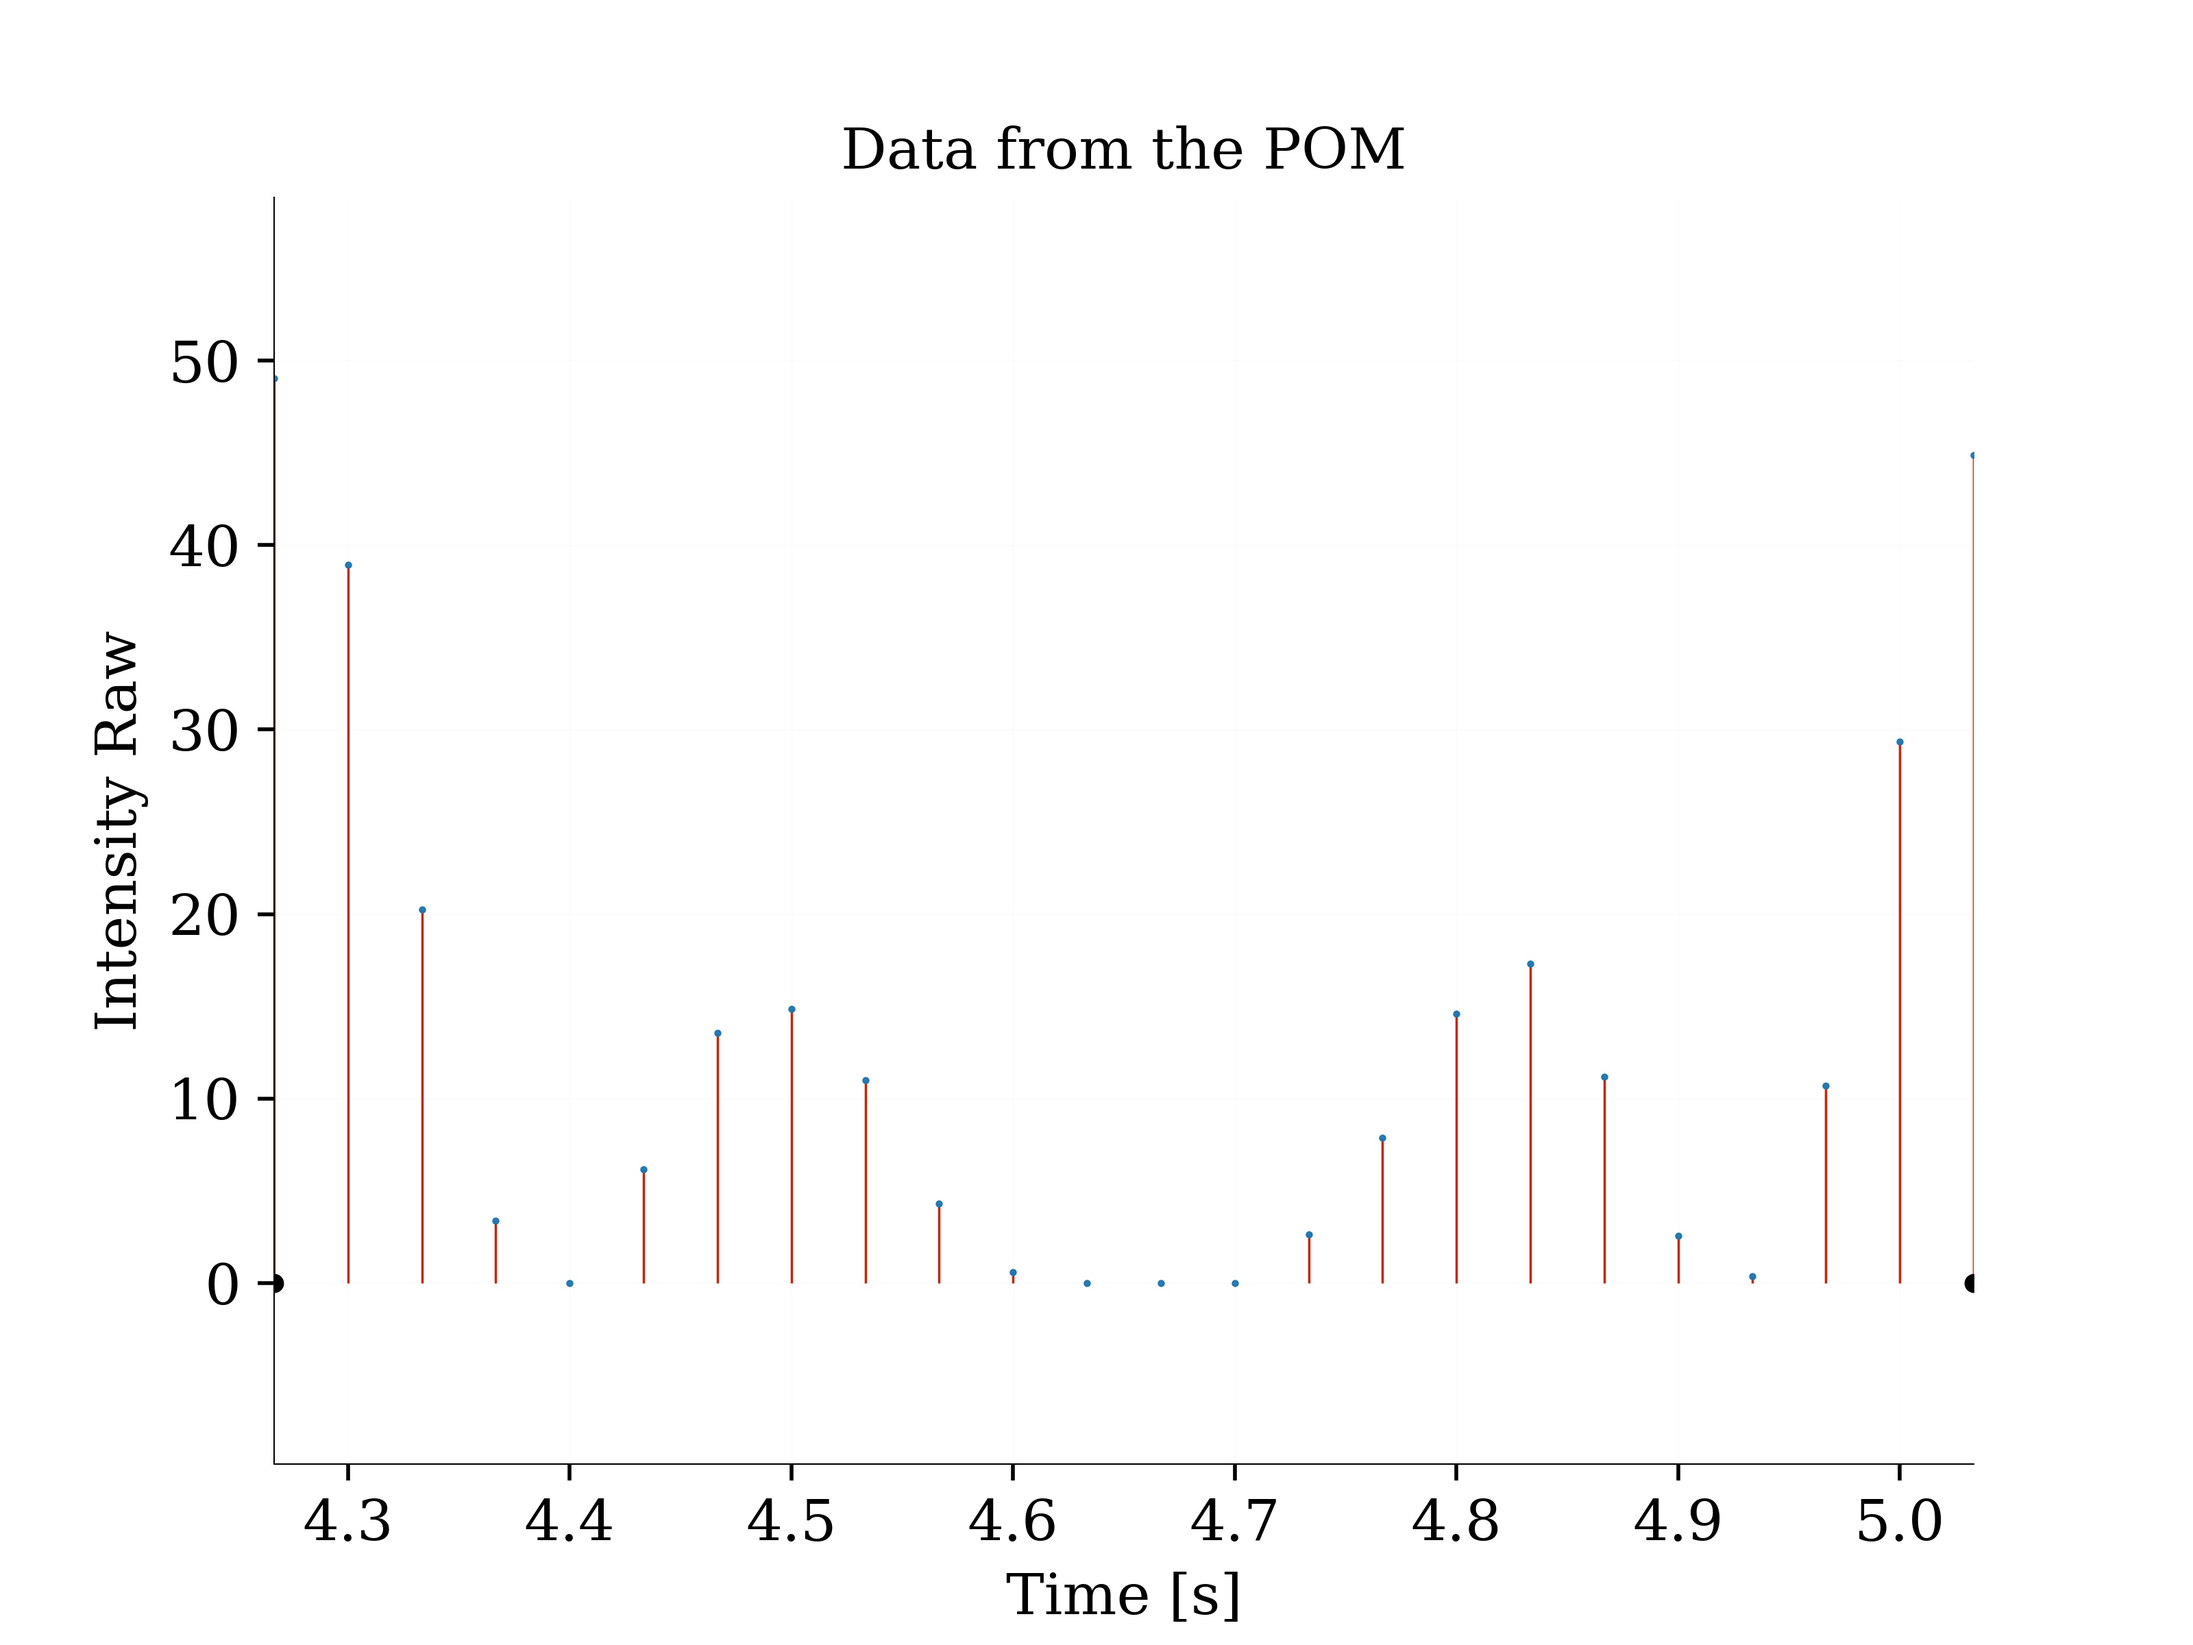
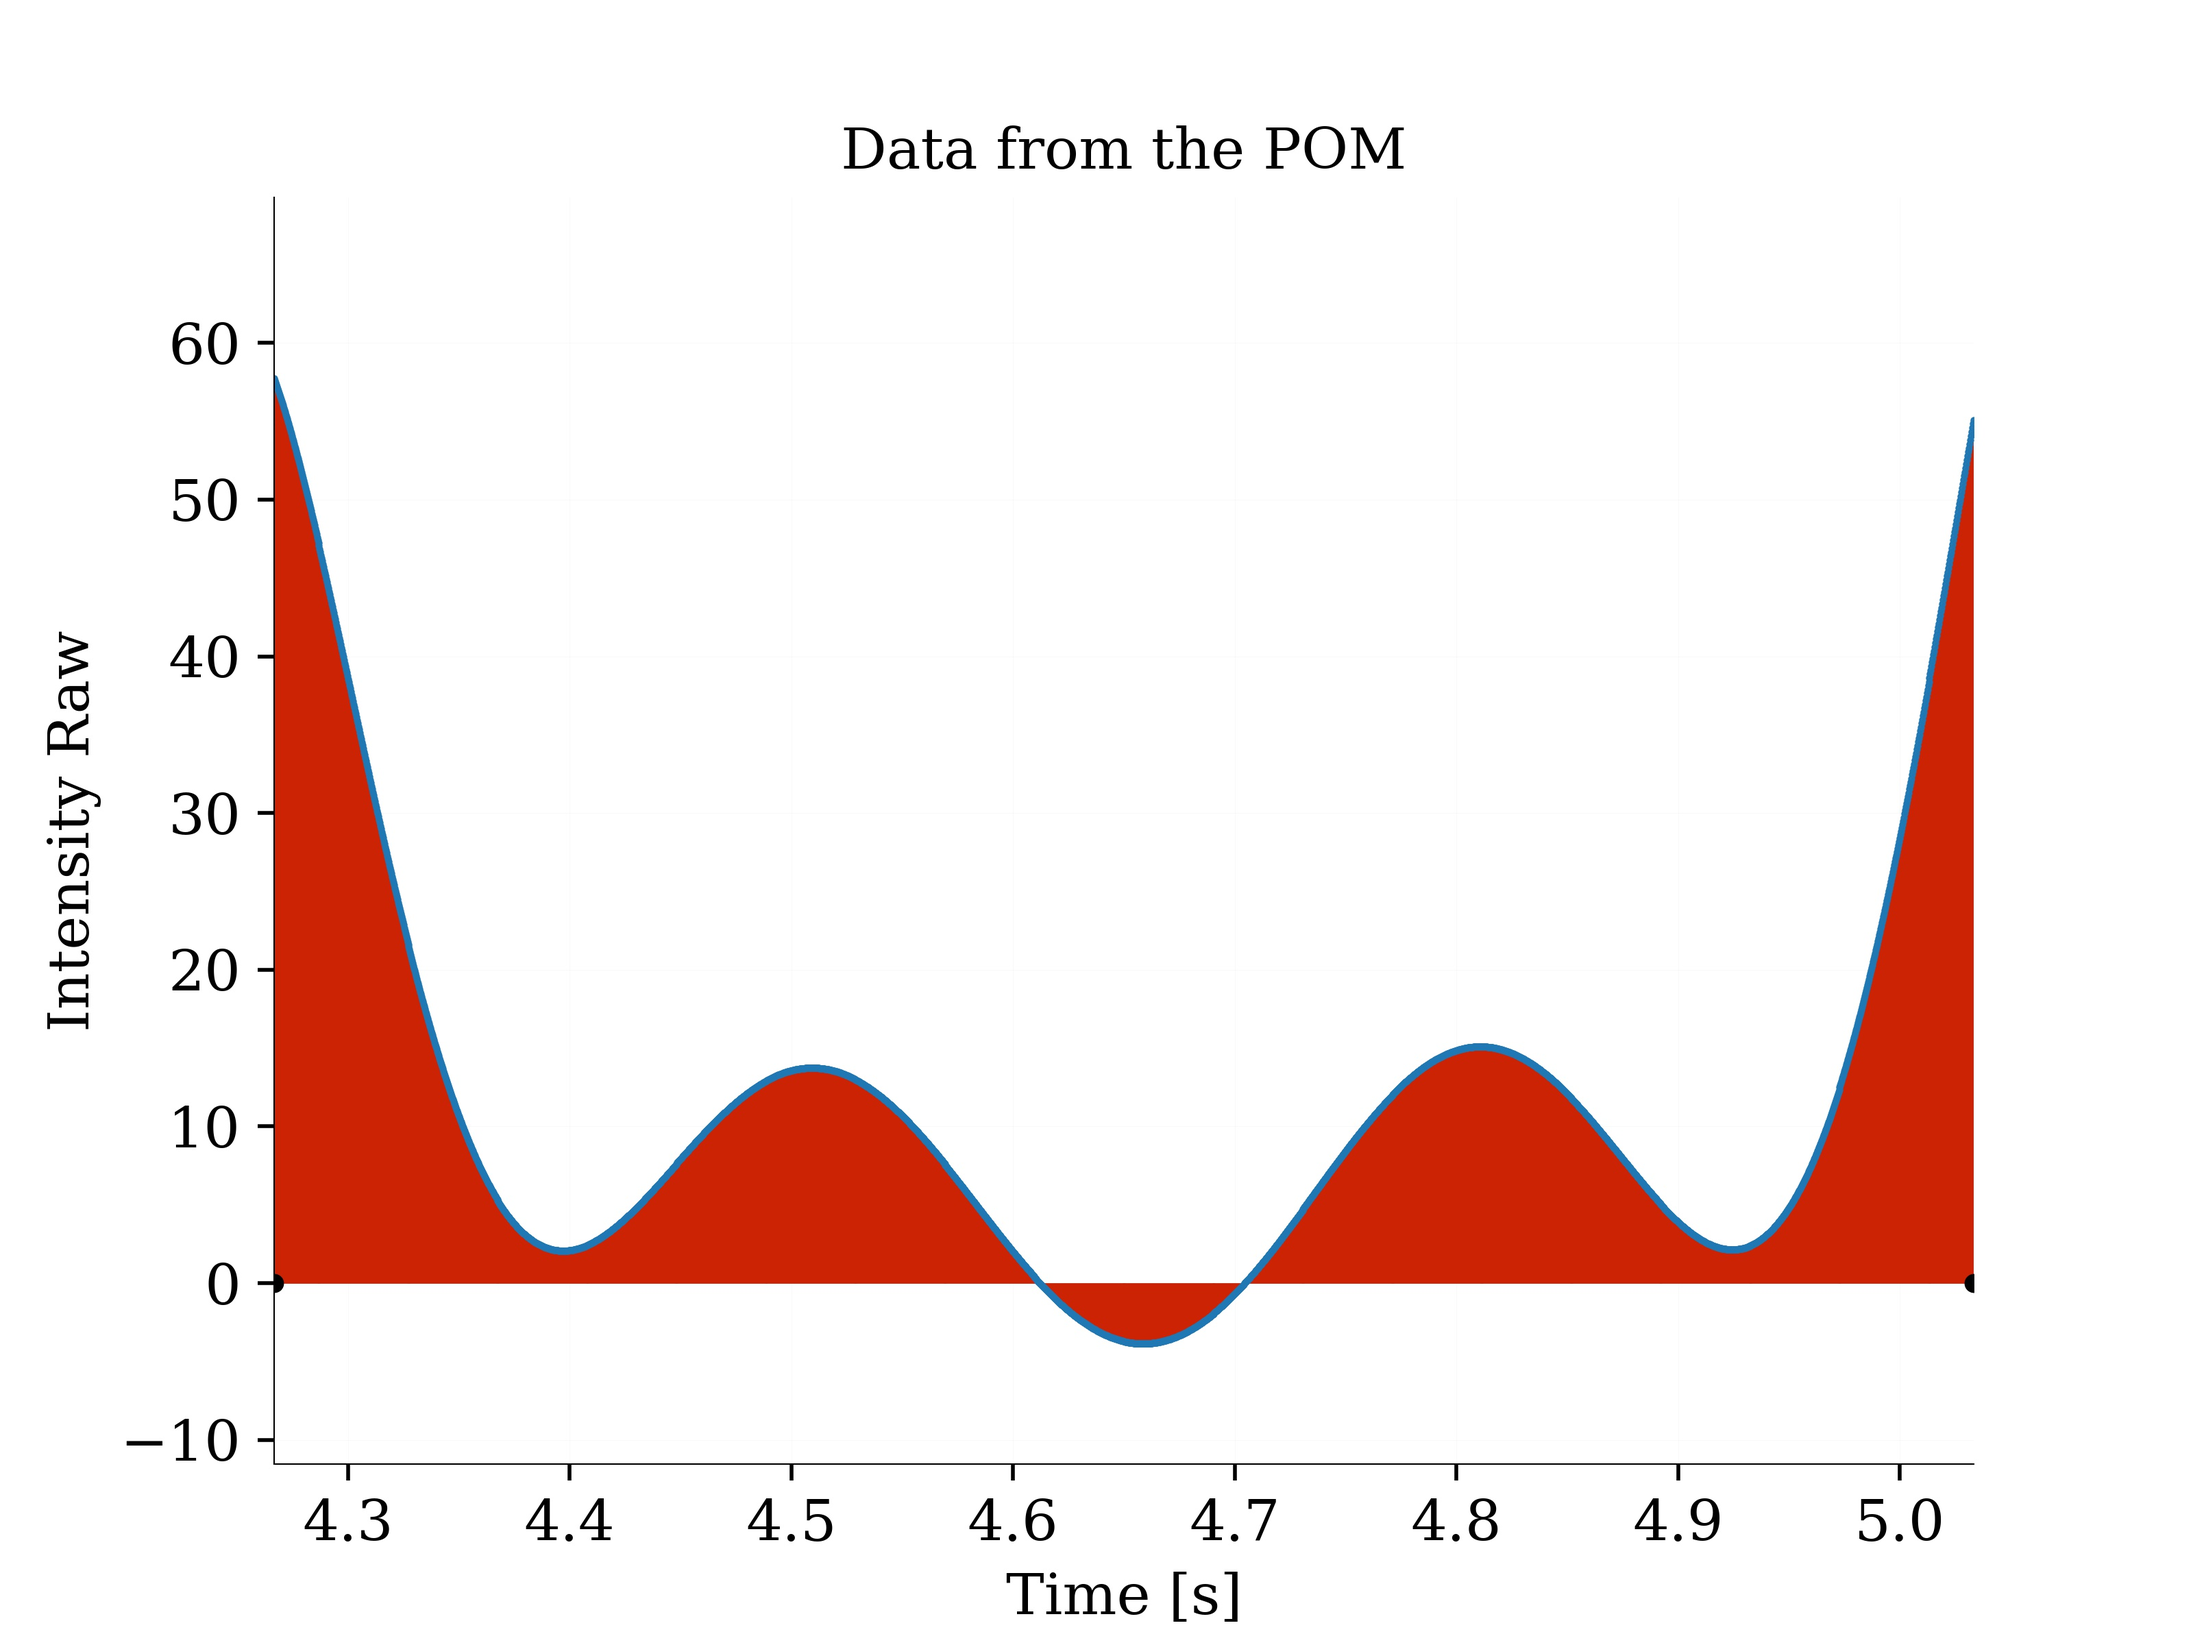
Second Edition

diff --git a/sensitiity_analysis.py b/sensitiity_analysis.py
@@ -1,6 +1,8 @@
 from fourier_transforms import fourier_coeffs, f_series, LagrangePoly    # helper functions
+from fourier_transforms import f_series2, f_residual
 from inerpolation_methods import whittaker_shannon_interpolation
 from scipy.signal import find_peaks
+from scipy.optimize import leastsq
 from collections import deque
 import numpy as np
 from matplotlib import pyplot as plt                                      # graphing utilities
@@ -28,17 +30,34 @@ peaks, _ = find_peaks(y_0, height=40)
 y_m, x_m = y_0[peaks[1]:peaks[2]], x_0[peaks[1]:peaks[2]]
 y_m1, x_m1 = y_0[peaks[2]:peaks[3]], x_0[peaks[2]:peaks[3]]
 y_mp, x_mp = y_0[peaks[1]:peaks[5]], x_0[peaks[1]:peaks[5]]
+x_m_new = np.linspace(min(x_m), max(x_m), 2500)
+y_m_new = (whittaker_shannon_interpolation(x_m_new, x_m, y_m))
 
 # plot_initial_signal_single(x_m, y_m)
+x_initial = np.ones(25)*2
+leastsq_x = leastsq(f_residual, x_initial, args=(x_m_new, y_m_new), maxfev=10000)
+print(leastsq_x[0][0])
+print("scipy.optimize.leastsq: ", leastsq_x[0])
+
+plt.plot(x_m_new, y_m_new, label="Data")
+plt.plot(x_m_new, f_series2(leastsq_x[0], x_m_new), label="optimize.leastsq")
+plt.xlabel("t")
+plt.legend(loc='upper right')
+plt.show()
+
+
+
+
+
+
 peak_dist = [x_0[peaks[i]] - x_0[peaks[i - 1]] for i in range(1, len(peaks))]
 period = x_0[peaks[2]] - x_0[peaks[1]]  # np.mean(peak_dist)
 
 
 # plot_initial_signal_single(x_f, f_series(a_0, a_k, b_k, x_f, 4, period))
 
-x_m_new = np.linspace(min(x_0), max(x_0), 1000)
-y_m_new = (whittaker_shannon_interpolation(x_m_new, x_0, y_0, period))
-plot_shannon_single(x_m_new, y_m_new, x_0, y_0)
+
+# plot_shannon_single(x_m_new, y_m_new, x_0, y_0)
 
 # x_f = np.linspace(min(x_m), max(x_m), len(x_m))
 # y_f = lp.interpolate(x_f)

diff --git a/fourier_transforms.py b/fourier_transforms.py
@@ -102,4 +102,51 @@ class LagrangePoly:
         return np.sum(b, axis=0)
 
 
+def f_series2(x: np.ndarray,
+              t: any) -> float:
+
+    """
+    Evaluation of the associated function at instances t from fourier series.
+    f(t) ~= a0/2+ sum_{k=1}^{N} ( a_k*cos(2*pi*k*t/T) + b_k*sin(2*pi*k*t/T) )
+
+    Parameters:
+    ________
+    x: coefficient for least square fit
+    t: instance of function evaluation
+    period: Period of periodic signal
+
+    Return:
+    ______
+    S: f(t) Evaluations of associated function
+    """
+    # Interpretation of optimization parameters
+    a_0, a_k, b_k  = x[0], x[1:5], x[5:9]
+    a_phi, b_phi = x[9:13], x[13:17]
+    freqs_a, freqs_b = x[17:21], x[21:25]
+    # function evaluation
+    f = [(a_k[i] * np.cos(2 * np.pi * i * t * freqs_a[i] + a_phi[i]) + b_k[i]
+          * np.sin(2 * np.pi * i * t * freqs_b[i] + b_phi[i])) for i in range(0, len(a_k) - 1)]
+    f = a_0 / 2 + sum(f)
+
+    return f
+
+
+def f_residual(x: np.ndarray,
+               t: np.ndarray,
+               d: np.ndarray) -> np.ndarray:
+
+    """
+    Parameters:
+    _________
+    x: np.ndarray optimization parameters for the optimizer
+    t: instances to be evaluated with associated function
+    d: measured data (real)
+
+    Return:
+    ______
+    residual: residual value of estimation vs model
+    """
+    residual = d - f_series2(x, t)
+
+    return residual
 

diff --git a/inerpolation_methods.py b/inerpolation_methods.py
@@ -4,7 +4,6 @@ import numpy as np
 def whittaker_shannon_interpolation(x: np.ndarray,
                                     xp: np.ndarray,
                                     fp: np.ndarray,
-                                    period: float,
                                     left=None,
                                     right=None):
     """
